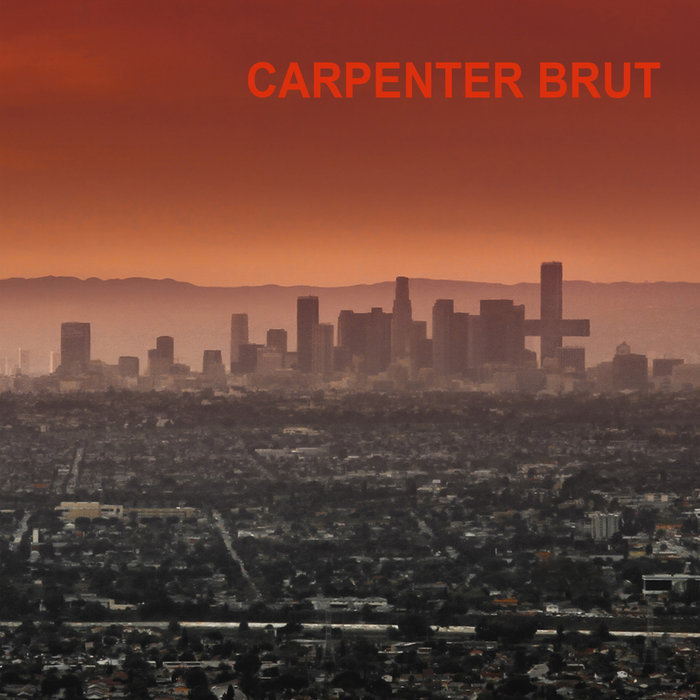
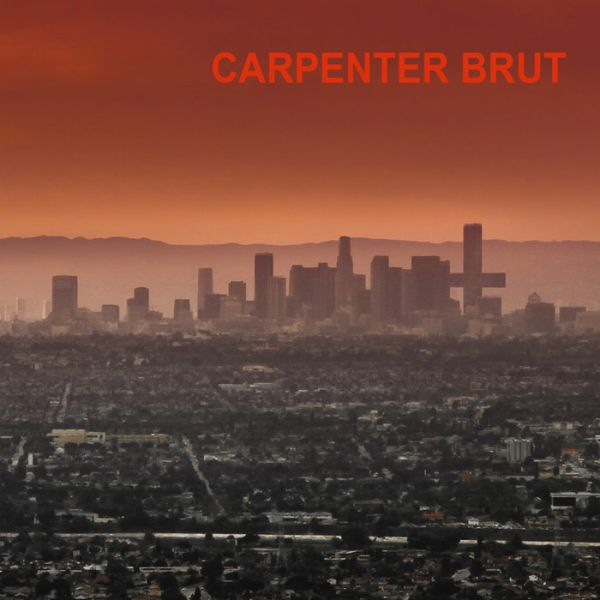
Resized image

diff --git a/assignment-07/readme.md b/assignment-07/readme.md
@@ -18,5 +18,8 @@
    - Added the google map iframe
    - Saved, pushed live.
    - Whoops the album art is huge
-   - Resized it to 600px
-   
+   - Resized it to 600px in the img properties
+   - Pushed live
+   - Well, that didn't work
+   - Resized the image in an editor
+   - Round 2, lets go
